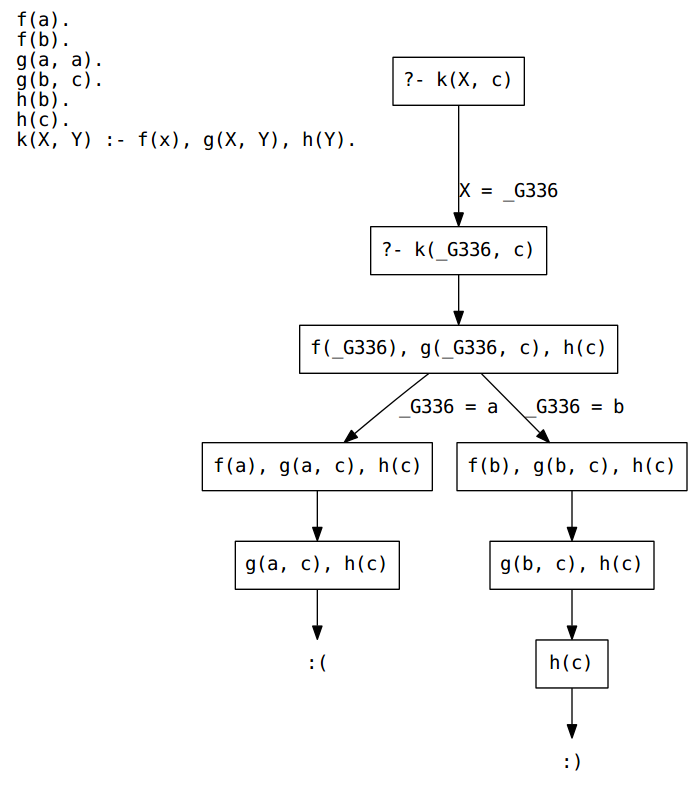
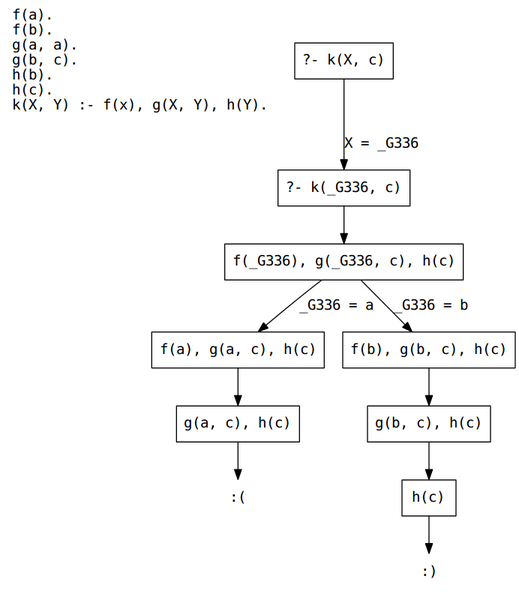
Fixed size of some images.

diff --git a/index.html b/index.html
@@ -188,7 +188,7 @@
             Sep 19, 11:59pm (Wed)</span></li>
         <li><a href="homework-5.html">Homework 5</a><span class="due">Due
             Sep 27, 11:59pm (Thur)</span></li>
-        <li><a href="midterm-1-guide.html">Midterm 1 guide*</a><span class="due">
+        <li><a href="midterm-1-guide.html">Midterm 1 guide</a><span class="due">
             Sep 28 (Fri; in class)</span></li>
         <li><a href="homework-6.html">Homework 6*</a><span class="due">Due
             Oct 16, 11:59pm (Tue)</span></li>

diff --git a/chinese-room.html b/chinese-room.html
@@ -7,7 +7,7 @@
 <meta http-equiv="Content-Type" content="text/html;charset=iso-8859-1"/>
 <meta name="title" content="The &ldquo;Chinese room&rdquo; argument"/>
 <meta name="generator" content="Org-mode"/>
-<meta name="generated" content="2012-09-21 10:28:53 EDT"/>
+<meta name="generated" content="2012-09-21 12:04:36 EDT"/>
 <meta name="author" content="Joshua Eckroth"/>
 <meta name="description" content=""/>
 <meta name="keywords" content=""/>

diff --git a/k-nn.html b/k-nn.html
@@ -7,7 +7,7 @@
 <meta http-equiv="Content-Type" content="text/html;charset=iso-8859-1"/>
 <meta name="title" content="k-nearest neighbor classification"/>
 <meta name="generator" content="Org-mode"/>
-<meta name="generated" content="2012-09-21 10:28:48 EDT"/>
+<meta name="generated" content="2012-09-21 12:04:30 EDT"/>
 <meta name="author" content="Joshua Eckroth"/>
 <meta name="description" content=""/>
 <meta name="keywords" content=""/>

diff --git a/guis.html b/guis.html
@@ -7,7 +7,7 @@
 <meta http-equiv="Content-Type" content="text/html;charset=iso-8859-1"/>
 <meta name="title" content="GUIs (graphical user interfaces)"/>
 <meta name="generator" content="Org-mode"/>
-<meta name="generated" content="2012-09-21 10:28:51 EDT"/>
+<meta name="generated" content="2012-09-21 12:04:34 EDT"/>
 <meta name="author" content="Joshua Eckroth"/>
 <meta name="description" content=""/>
 <meta name="keywords" content=""/>

diff --git a/norvig-chomsky.html b/norvig-chomsky.html
@@ -7,7 +7,7 @@
 <meta http-equiv="Content-Type" content="text/html;charset=iso-8859-1"/>
 <meta name="title" content="The Norvig - Chomsky debate"/>
 <meta name="generator" content="Org-mode"/>
-<meta name="generated" content="2012-09-21 10:28:44 EDT"/>
+<meta name="generated" content="2012-09-21 12:04:28 EDT"/>
 <meta name="author" content="Joshua Eckroth"/>
 <meta name="description" content=""/>
 <meta name="keywords" content=""/>

diff --git a/philosophical-perspectives.html b/philosophical-perspectives.html
@@ -7,7 +7,7 @@
 <meta http-equiv="Content-Type" content="text/html;charset=iso-8859-1"/>
 <meta name="title" content="Philosophical perspectives"/>
 <meta name="generator" content="Org-mode"/>
-<meta name="generated" content="2012-09-21 10:28:44 EDT"/>
+<meta name="generated" content="2012-09-21 12:04:27 EDT"/>
 <meta name="author" content="Joshua Eckroth"/>
 <meta name="description" content=""/>
 <meta name="keywords" content=""/>

diff --git a/beyond-agents.html b/beyond-agents.html
@@ -7,7 +7,7 @@
 <meta http-equiv="Content-Type" content="text/html;charset=iso-8859-1"/>
 <meta name="title" content="Beyond intelligent agents"/>
 <meta name="generator" content="Org-mode"/>
-<meta name="generated" content="2012-09-21 10:28:55 EDT"/>
+<meta name="generated" content="2012-09-21 12:04:37 EDT"/>
 <meta name="author" content="Joshua Eckroth"/>
 <meta name="description" content=""/>
 <meta name="keywords" content=""/>

diff --git a/emotions.html b/emotions.html
@@ -7,7 +7,7 @@
 <meta http-equiv="Content-Type" content="text/html;charset=iso-8859-1"/>
 <meta name="title" content="Emotions and intelligence"/>
 <meta name="generator" content="Org-mode"/>
-<meta name="generated" content="2012-09-21 10:28:53 EDT"/>
+<meta name="generated" content="2012-09-21 12:04:35 EDT"/>
 <meta name="author" content="Joshua Eckroth"/>
 <meta name="description" content=""/>
 <meta name="keywords" content=""/>

diff --git a/linux.html b/linux.html
@@ -7,7 +7,7 @@
 <meta http-equiv="Content-Type" content="text/html;charset=iso-8859-1"/>
 <meta name="title" content="About the Linux servers"/>
 <meta name="generator" content="Org-mode"/>
-<meta name="generated" content="2012-09-21 10:28:47 EDT"/>
+<meta name="generated" content="2012-09-21 12:04:29 EDT"/>
 <meta name="author" content="Joshua Eckroth"/>
 <meta name="description" content=""/>
 <meta name="keywords" content=""/>

diff --git a/prisoners-dilemma.html b/prisoners-dilemma.html
@@ -7,7 +7,7 @@
 <meta http-equiv="Content-Type" content="text/html;charset=utf-8"/>
 <meta name="title" content="The prisoner&rsquo;s dilemma"/>
 <meta name="generator" content="Org-mode"/>
-<meta name="generated" content="2012-09-21 10:28:43 EDT"/>
+<meta name="generated" content="2012-09-21 12:04:27 EDT"/>
 <meta name="author" content="Joshua Eckroth"/>
 <meta name="description" content=""/>
 <meta name="keywords" content=""/>

diff --git a/screencasts.html b/screencasts.html
@@ -7,7 +7,7 @@
 <meta http-equiv="Content-Type" content="text/html;charset=iso-8859-1"/>
 <meta name="title" content="Screencasts of lectures"/>
 <meta name="generator" content="Org-mode"/>
-<meta name="generated" content="2012-09-21 10:28:40 EDT"/>
+<meta name="generated" content="2012-09-21 12:04:24 EDT"/>
 <meta name="author" content="Joshua Eckroth"/>
 <meta name="description" content=""/>
 <meta name="keywords" content=""/>

diff --git a/knowledge-level.html b/knowledge-level.html
@@ -7,7 +7,7 @@
 <meta http-equiv="Content-Type" content="text/html;charset=iso-8859-1"/>
 <meta name="title" content="The knowledge level"/>
 <meta name="generator" content="Org-mode"/>
-<meta name="generated" content="2012-09-21 10:28:47 EDT"/>
+<meta name="generated" content="2012-09-21 12:04:30 EDT"/>
 <meta name="author" content="Joshua Eckroth"/>
 <meta name="description" content=""/>
 <meta name="keywords" content=""/>
